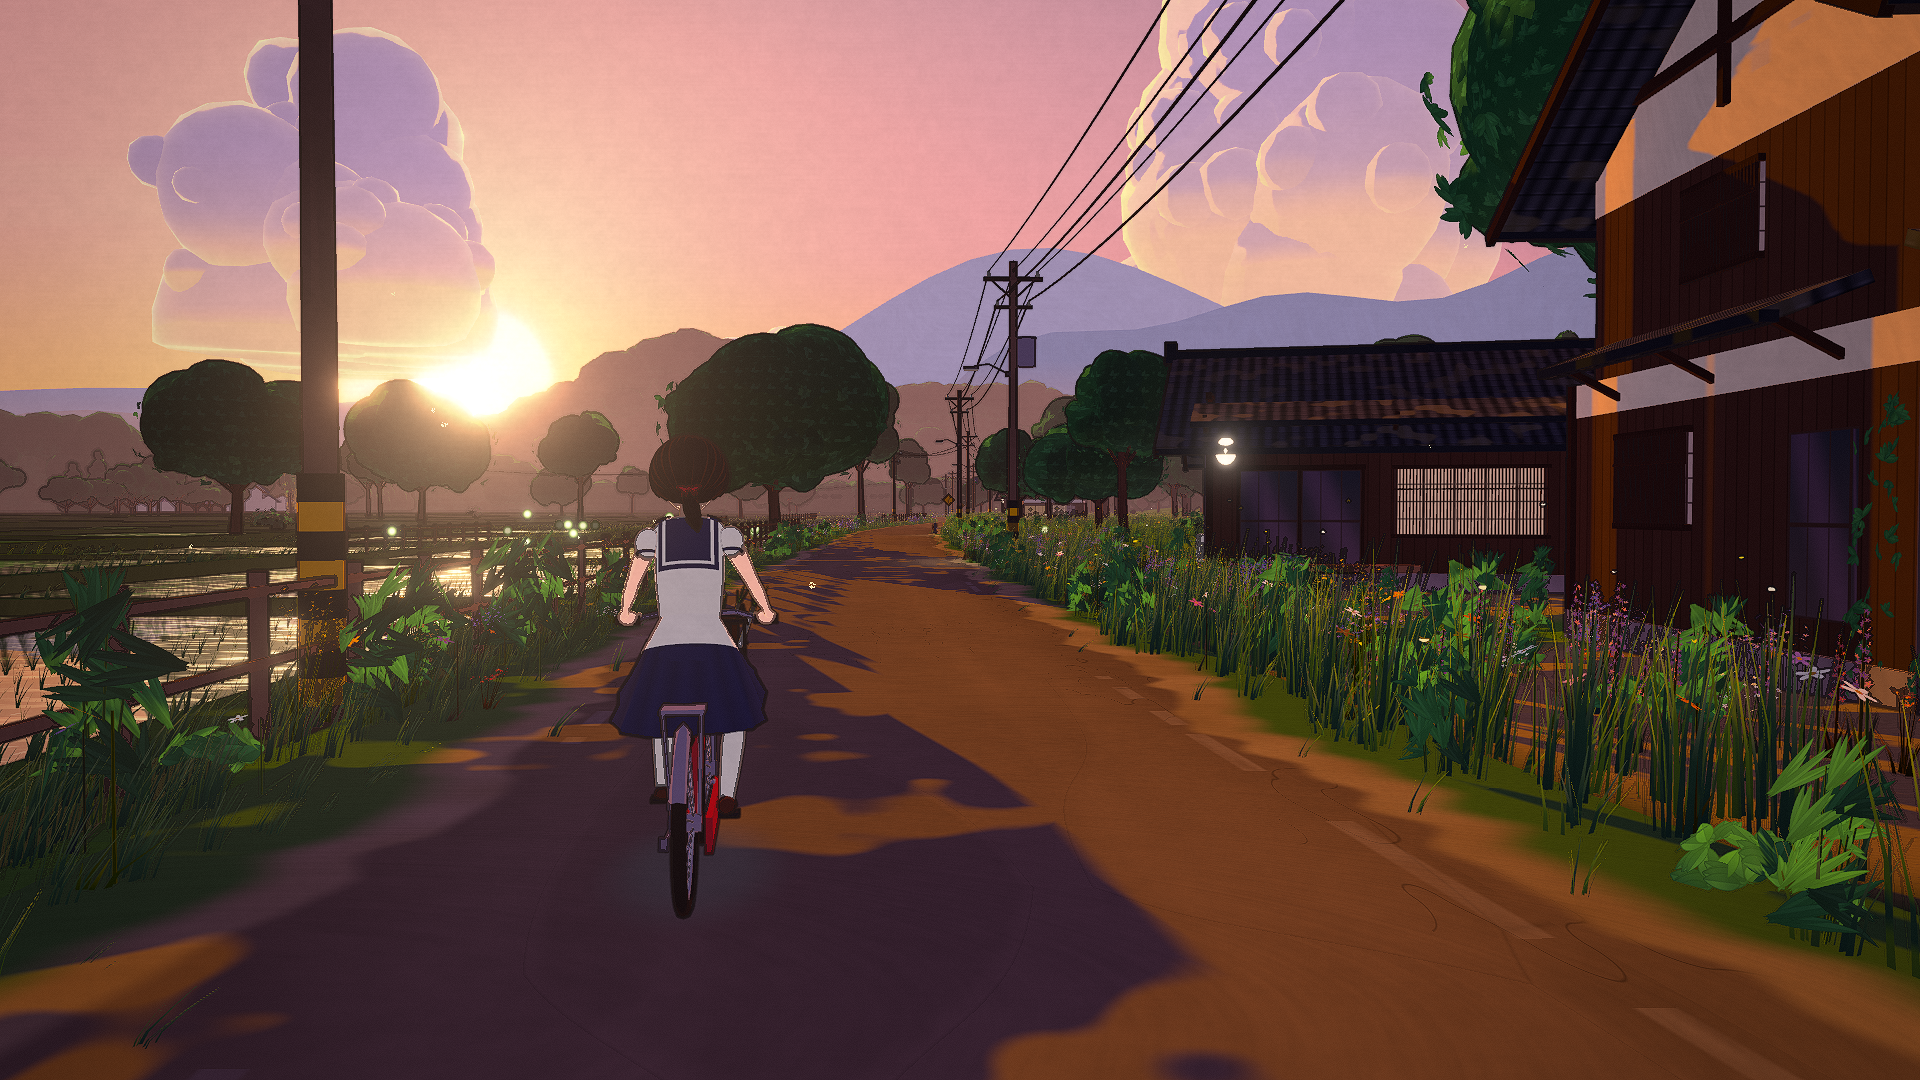
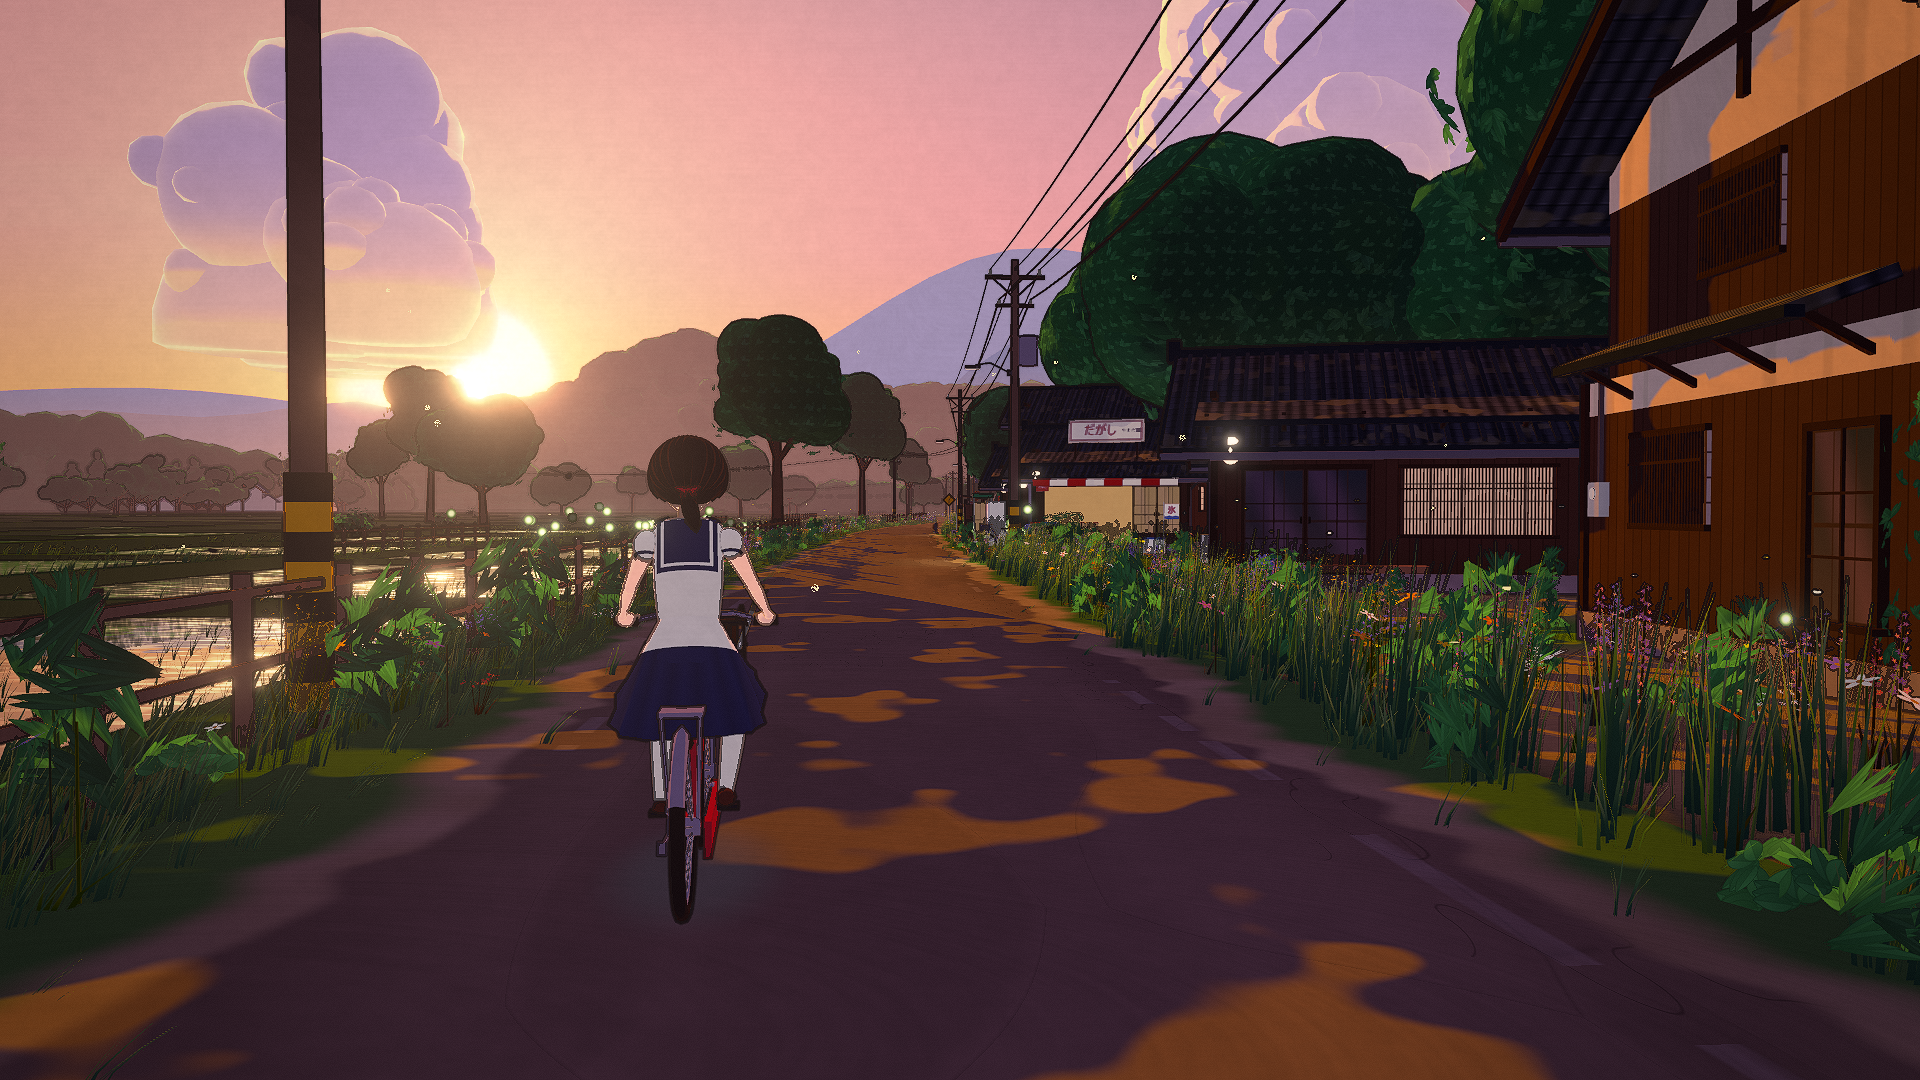
Time of day x iteration 7: vending/phone panels, shop signs, chochin + shop interiors, stone-lantern flames glow at dusk; flocks thin at sunset and leave at dusk (kite too); dusk shop-row capture

diff --git a/src/render/materials.ts b/src/render/materials.ts
@@ -515,7 +515,7 @@ void main(){
     paint = 0.12; rim = 0.3; soft = 0.05;
     if (mt == 24) emis = base * 0.28;
     // Dusk: lit panels (vending, phone) glow; painted shop signs catch a little lamplight.
-    gEmit = base * uNight * (mt == 24 ? 1.5 : 0.18);
+    gEmit = base * uNight * (mt == 24 ? 0.7 : 0.18);
   } else if (mt == 25) {    // plaster: rain streaks under the eaves, grime toward the ground
     vec2 tg = normalize(vec2(-N.z, N.x) + 1e-4);
     float sx = dot(vWPos.xz, tg);
@@ -525,7 +525,8 @@ void main(){
     paint = 0.7;
   } else if (mt == 14) {    // paper lantern (soft, never a lamp in daylight)
     emis = base * 0.18;
-    gEmit = mix(base, vec3(1.0, 0.62, 0.3), 0.5) * uNight * 2.4;
+    // Albedo-driven: paper lanterns bloom, dark shop interiors stay a warm dim glow.
+    gEmit = (base * 2.2 + vec3(0.26, 0.14, 0.05)) * uNight;
     paint = 0.3;
   } else if (mt == 15) {    // hair: strand highlights
     float s = vnoise(vec2(atan(vObj.x, vObj.z) * 9.0, vObj.y * 3.0));
